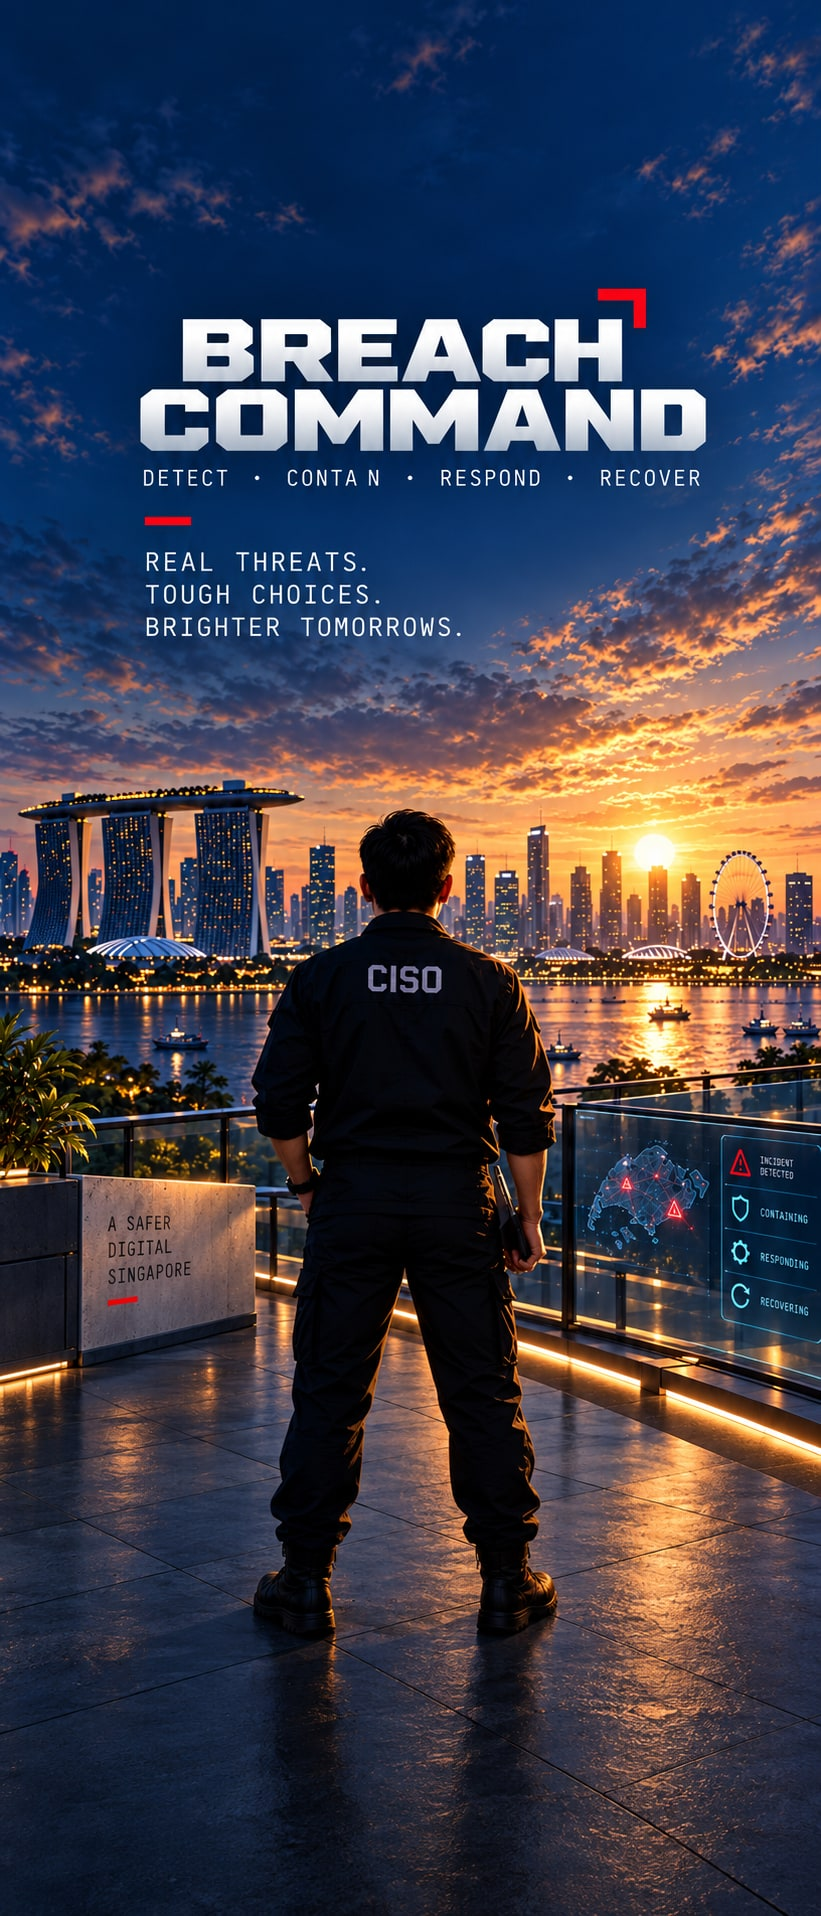
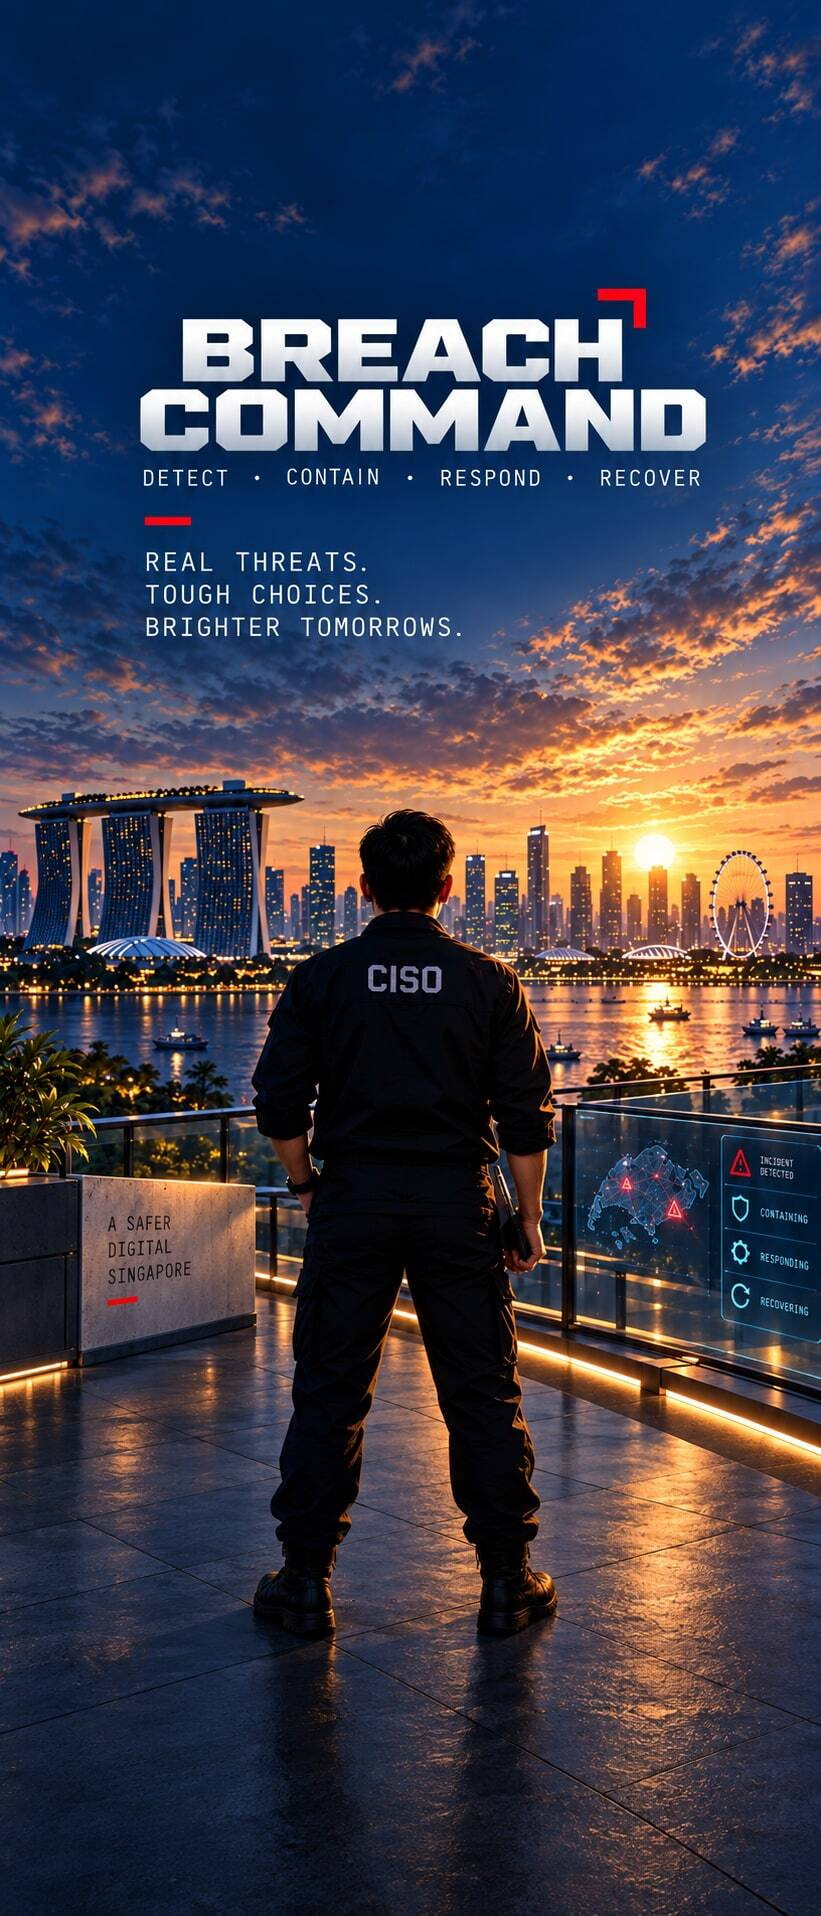
Correct CONTAIN lettering on the phone title poster

Changed region(s): [[0.3654, 0.2463, 0.4568, 0.2771], [0.8831, 0.5851, 0.9135, 0.6159]]

diff --git a/AGENTS.md b/AGENTS.md
@@ -83,6 +83,7 @@ These instructions apply to the entire repository. Preserve the game as a polish
 - The title artwork's bottom-left release/build label uses the existing `NEXT_PUBLIC_APP_VERSION` and `NEXT_PUBLIC_BUILD_ID` values, never a hand-written release or hash. Keep its 12 px metadata readable on a dark backing, within the picture and below the entry button at phone widths. Preserve the `build-version` screenshot mask because its text changes on every commit.
 
 - Tall-phone title refinement (user approved): at viewport aspect ratios up to 3:5, select `public/art/title/phone.jpg` before the existing portrait source. This taller adaptation of the supplied poster reserves extra sky and terrace so the complete logo survives cover cropping. Keep the existing portrait and landscape assets for wider ratios, one image request, and the HTML entry/build overlays. Retain the original generated source outside the public bundle. Title regressions cover four phone sizes, iPad portrait and landscape, keyboard entry, saved progress, locale, artwork failure and accessibility across the three browser engines.
+- Inspect embedded lettering in each responsive poster at native resolution and phone display sizes: the tagline must read “DETECT · CONTAIN · RESPOND · RECOVER,” including the narrow “I” in “CONTAIN.” A loaded-image or pixel-baseline check alone cannot establish that generated lettering is spelled correctly. Retain the approved compositions and JPEG dimensions/compression when preparing a corrected asset.
 
 - `app/page.tsx` is the illustrated title page; `app/play/page.tsx` opens the incident application at `/play`. Keep the supplied title posters on their own route and stylesheet, with one responsive image request and a readable keyboard-accessible "Stop the Breach" link that preserves locale. The approved fullscreen layout uses dynamic-viewport cover cropping on desktop, both iPad orientations and phones; preserve the reviewed crops and keep the button and build label within safe areas. Do not let grid intrinsic sizing expand the stage beyond the viewport: the poster previously overflowed at 768×1024 and 1920×1080. The title entry must never create or replace a saved operation. Keep direct `/play` links, educator return links and browser fixtures aligned. The worker precaches both document shells and their scripts/styles; query navigations fall back to the matching shell. Artwork failure must leave the title entry usable. Add title checks to all three browser engines and runner visual baselines.
 

diff --git a/README.md b/README.md
@@ -59,7 +59,7 @@ After the cargo-source correction, a fresh 9,000-operation simulation records
 95.9% / 89.0% / 73.7% wins at Training / Operational / Crisis. These measure the
 Bot Commander on seeded standard incidents, not human completion rates.
 
-The title artwork fills the viewport on desktop, iPad and phone, cropping its edges as needed. Tall phones use a dedicated composition with extra sky and terrace space to keep the embedded logo fully visible. The entry button and release/build label remain within the screen's safe area as browser controls resize the view.
+The title artwork fills the viewport on desktop, iPad and phone, cropping its edges as needed. Tall phones use a dedicated composition with extra sky and terrace space to keep the embedded logo fully visible. Its tagline reads “DETECT · CONTAIN · RESPOND · RECOVER.” The entry button and release/build label remain within the screen's safe area as browser controls resize the view.
 
 The home page opens with the supplied Breach Command incident-command artwork: landscape on wide screens and portrait on tall screens. The bottom-left of the artwork shows the current release and build, matching the game footer. Select **Stop the Breach** to reach the incident desk at `/play`, where you can begin or resume an operation. You can bookmark `/play` to open the desk directly. Both entry pages remain available offline after visiting the desk; theme images are decorative and load separately from the game.
 

diff --git a/CHANGELOG.md b/CHANGELOG.md
@@ -4,6 +4,10 @@ Kept by hand, newest first. Each release's version is in `package.json`, shown
 in the footer and in Settings' diagnostics, and tagged `v<version>` by the
 release workflow once Verify passes on `main`. See `docs/RELEASING.md`.
 
+## 0.10.8, 24 October 2026
+
+- Correct the missing “I” in “CONTAIN” on the tall-phone title artwork; preserve its responsive composition, entry control and release label.
+
 ## 0.10.7, 24 October 2026
 
 - Stop repeat comparison rewards for empty findings or already corroborated evidence. New independent record links earn relief; unsupported assessments retain their costs.
